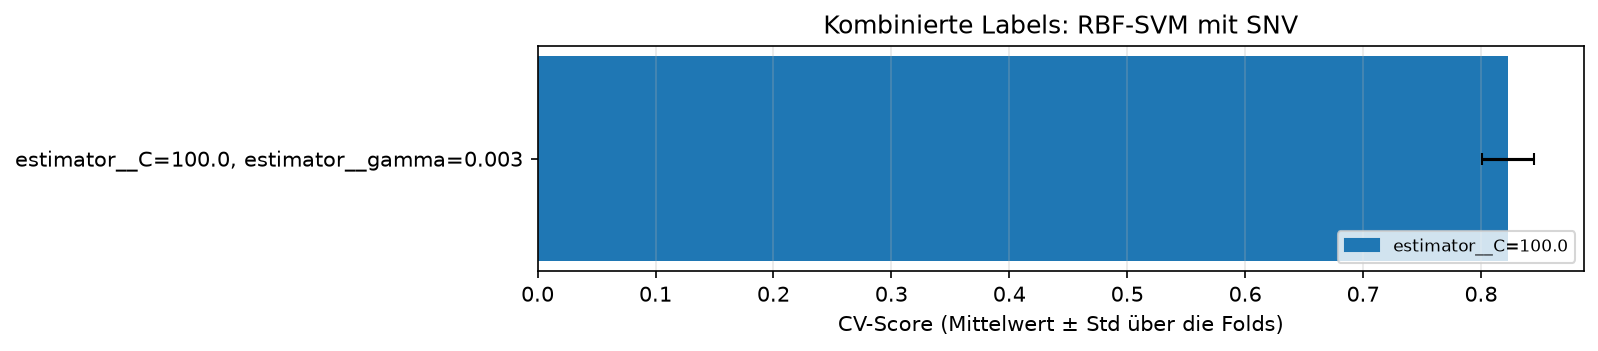
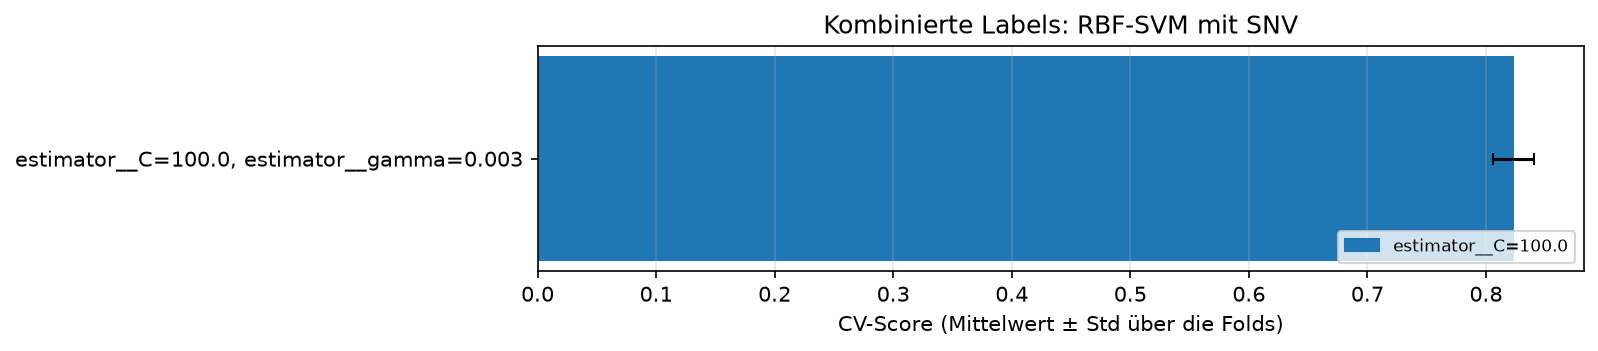
refactor snv Implementierung

diff --git a/docs/modelle/ansaetze/kombiniert.md b/docs/modelle/ansaetze/kombiniert.md
@@ -97,7 +97,7 @@ getrennte Versuche:
 | Baum-Ensembles | `scale=False`, `use_meta=True` | Nichtlineare Interaktionen ohne Skalierung | Klassengewichte oder Sample Weights gegen die ungleichen kombinierten Klassen einsetzen. |
 | Kontext-Ablation | `use_meta=False` | Misst den reinen Beitrag der Spektren | Nie anhand eines anderen Splits vergleichen. |
 | Indizes | `use_vegetation_indices=True` | Testet NDVI, NDRE, PRI und NDWI zusätzlich zu den Bändern | Gegen dieselbe Basiskonfiguration ohne Indizes vergleichen. |
-| SNV | `scale=True`, `use_snv=True`, `use_meta=True` | Hebt die Form jedes Spektrums gegenüber seinem Helligkeitsniveau hervor | CV-BAcc 0,823 liegt unter Rohspektren (0,847); kein Holdout-Lauf. |
+| SNV | `scale=True`, `use_spectral_snv=True`, `use_meta=True` | Hebt die Form jedes Spektrums gegenüber seinem Helligkeitsniveau hervor | CV-BAcc 0,823 liegt unter Rohspektren (0,847); kein Holdout-Lauf. |
 | Spätere Glättung/Bandauswahl | neues Feld in `PreprocessingConfig` und Transformer in `awp2.preprocessing` | Kann Rauschen oder Redundanz senken | Erst eine fachliche Hypothese und einen kleinen Vergleich definieren; niemals Features vor dem CV fitten. |
 
 Month bleibt zunächst numerisch, AEZ wird One-Hot-kodiert. Eine zyklische Month-Kodierung ist
@@ -217,8 +217,8 @@ Metadatenzweig.
 - **Warum getestet?** Die Transformation prüft, ob die Form der Spektralkurve die kombinierten
     Klassen robuster trennt, wenn absolute Reflektanzunterschiede abgeschwächt werden.
 - Die feste Referenz-SVM mit `C=100.0` und `gamma=0.003` erreicht mit SNV im Tuning-Lauf
-    `combined_svm_snv_search` (MLflow `c1851329`) nur eine CV-BAcc kombiniert von 0,823.
-- Das liegt 0,024 unter der Rohspektren-Referenz (0,847). Der vorher festgelegte
+    `combined_svm_snv_search` (MLflow `01484f93`) nur eine CV-BAcc kombiniert von 0,8233.
+- Das liegt 0,0240 unter der Rohspektren-Referenz (0,8473). Der vorher festgelegten
     Entscheidungsregel folgend wurde der gemeinsame Holdout nicht bewertet; SNV wird nicht
     übernommen.
 - Absolute Helligkeits- und Niveauunterschiede enthalten hier offenbar trennrelevante

diff --git a/docs/modelle/experimente.md b/docs/modelle/experimente.md
@@ -26,3 +26,4 @@ Diese Läufe verwenden ausschließlich die Trainingsfolds. Sie haben keine Valid
 | Datum | ID | Autor | Ansatz | CV-BAcc kombiniert | MLflow-Run | Notiz |
 | --- | --- | --- | --- | --- | --- | --- |
 | 2026-10-09 | combined_svm_wide_cv_search | duac1011 | Kombinierte Klasse | 0.853 | 01903fad | 25 Kombinationen von `C` und `gamma`; bestes CV-Ergebnis: `C=300.0`, `gamma=0.001`. Nach der Holdout-Bewertung von `combined_svm_expanded` nur zur Sensitivitätsanalyse ausgeführt; keine zweite Validierung. |
+| 2026-10-11 | combined_svm_snv_search | duac1011 | Kombinierte Klasse | 0.823 | 01484f93 | Offizielle SNV-Implementierung mit `use_spectral_snv`; feste Referenzparameter, unter der Rohspektren-Referenz, kein Holdout-Lauf. |
